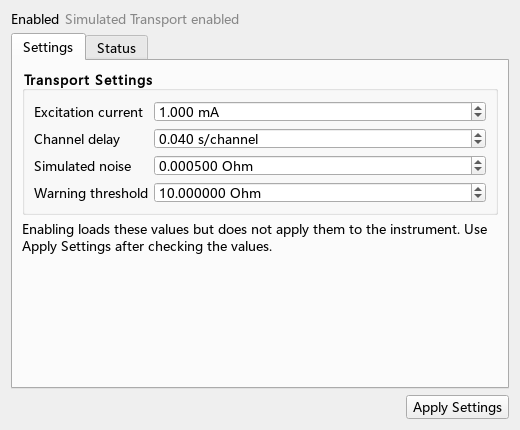
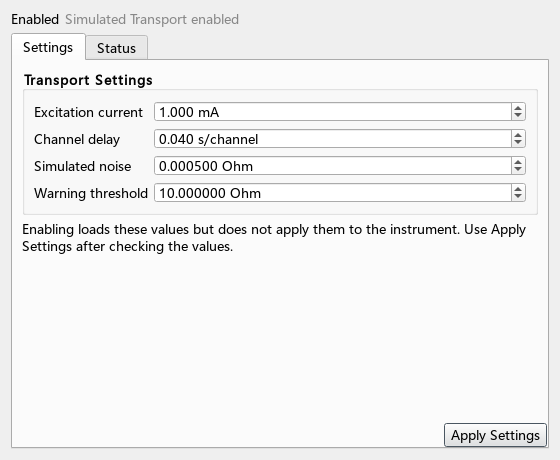
fix: keep module apply action on settings tab

Changed region(s): [[0.0, 0.0302, 0.9846, 0.9977]]

diff --git a/src/labcontrol/ui/measurement_modules.py b/src/labcontrol/ui/measurement_modules.py
@@ -4,7 +4,7 @@ from collections.abc import Mapping
 from copy import deepcopy
 from typing import Any
 
-from PySide6.QtCore import Qt, Signal
+from PySide6.QtCore import QSize, Qt, Signal
 from PySide6.QtGui import QCloseEvent
 from PySide6.QtWidgets import (
     QAbstractItemView,
@@ -23,6 +23,10 @@ from PySide6.QtWidgets import (
 from ..measurement.frontend_api import ModuleFrontend, ModuleFrontendContext
 from ..measurement.manifest import ModuleDescriptor, load_source_object
 from .scaling import scaled
+
+
+MODULE_WINDOW_MIN_WIDTH = 560
+MODULE_WINDOW_MIN_HEIGHT = 460
 
 
 class ModuleWindow(QDialog):
@@ -49,7 +53,6 @@ class ModuleWindow(QDialog):
         flags |= Qt.WindowType.WindowMinimizeButtonHint
         self.setWindowFlags(flags)
         self.setWindowTitle(f"{descriptor.name} {descriptor.version}")
-        self.setMinimumSize(scaled(520), scaled(430))
 
         layout = QVBoxLayout(self)
         header = QHBoxLayout()
@@ -62,19 +65,31 @@ class ModuleWindow(QDialog):
         layout.addLayout(header)
 
         self.tabs = QTabWidget()
-        self.settings_page = self.frontend.create_settings_page(self.tabs)
-        self.status_page = self.frontend.create_status_page(self.tabs)
-        self.tabs.addTab(self.settings_page, "Settings")
-        self.tabs.addTab(self.status_page, "Status")
-        self.tabs.setCurrentIndex(0)
-        layout.addWidget(self.tabs, 1)
+        self.settings_page = QWidget(self.tabs)
+        settings_layout = QVBoxLayout(self.settings_page)
+        settings_layout.setContentsMargins(0, 0, 0, 0)
+        self.settings_content = self.frontend.create_settings_page(self.settings_page)
+        settings_layout.addWidget(self.settings_content, 1)
 
         footer = QHBoxLayout()
         self.apply_button = QPushButton("Apply Settings")
         self.apply_button.clicked.connect(lambda: self.applyRequested.emit(descriptor.id))
         footer.addStretch(1)
         footer.addWidget(self.apply_button)
-        layout.addLayout(footer)
+        settings_layout.addLayout(footer)
+
+        self.status_page = self.frontend.create_status_page(self.tabs)
+        self.tabs.addTab(self.settings_page, "Settings")
+        self.tabs.addTab(self.status_page, "Status")
+        self.tabs.setCurrentIndex(0)
+        layout.addWidget(self.tabs, 1)
+
+        layout.activate()
+        minimum = self.sizeHint().expandedTo(
+            QSize(scaled(MODULE_WINDOW_MIN_WIDTH), scaled(MODULE_WINDOW_MIN_HEIGHT))
+        )
+        self.setMinimumSize(minimum)
+        self.resize(minimum)
 
         self.frontend.settingsChanged.connect(self._mark_dirty)
         self.context.manualActionRequested.connect(

diff --git a/tests/test_measurement_modules.py b/tests/test_measurement_modules.py
@@ -26,7 +26,12 @@ from labcontrol.measurement.service import MeasurementModuleService  # noqa: E40
 from labcontrol.measurement.settings import load_settings, save_settings  # noqa: E402
 from labcontrol.measurement.worker import WorkerRequestError  # noqa: E402
 from labcontrol.plugins import DeviceManager  # noqa: E402
-from labcontrol.ui.measurement_modules import ModuleWindow  # noqa: E402
+from labcontrol.ui.measurement_modules import (  # noqa: E402
+    MODULE_WINDOW_MIN_HEIGHT,
+    MODULE_WINDOW_MIN_WIDTH,
+    ModuleWindow,
+)
+from labcontrol.ui.scaling import scaled  # noqa: E402
 
 
 def copied_project(temp_root: Path):
@@ -309,6 +314,15 @@ class ModuleWindowTests(unittest.TestCase):
         self.assertTrue(window.has_unapplied_edits())
         window.show()
         self.application.processEvents()
+        self.assertTrue(window.apply_button.isVisible())
+        window.tabs.setCurrentIndex(1)
+        self.application.processEvents()
+        self.assertFalse(window.apply_button.isVisible())
+        self.assertGreaterEqual(window.minimumWidth(), scaled(MODULE_WINDOW_MIN_WIDTH))
+        self.assertGreaterEqual(window.minimumHeight(), scaled(MODULE_WINDOW_MIN_HEIGHT))
+        window.resize(1, 1)
+        self.assertGreaterEqual(window.width(), window.minimumWidth())
+        self.assertGreaterEqual(window.height(), window.minimumHeight())
         window.close()
         self.application.processEvents()
         self.assertTrue(window.isVisible())

diff --git a/tools/capture_module_preview.py b/tools/capture_module_preview.py
@@ -21,6 +21,7 @@ from labcontrol.ui.main_window import MainWindow  # noqa: E402
 def main() -> int:
     manager_output = ROOT / "docs" / "module-manager-preview.png"
     module_output = ROOT / "docs" / "module-window-preview.png"
+    status_output = ROOT / "docs" / "module-status-preview.png"
     application = QApplication([])
     config = load_config(ROOT / "configs" / "default.toml")
     activate_shared_dependencies(config)
@@ -44,15 +45,19 @@ def main() -> int:
             application.processEvents()
             window.module_manager.grab().save(str(manager_output), "PNG")
             module_window.grab().save(str(module_output), "PNG")
+            module_window.tabs.setCurrentIndex(1)
+            application.processEvents()
+            module_window.grab().save(str(status_output), "PNG")
         window.close()
         application.quit()
 
     QTimer.singleShot(100, capture_when_ready)
     application.exec()
-    if not manager_output.exists() or not module_output.exists():
+    if not manager_output.exists() or not module_output.exists() or not status_output.exists():
         return 1
     print(manager_output)
     print(module_output)
+    print(status_output)
     return 0
 
 

diff --git a/src/labcontrol/__init__.py b/src/labcontrol/__init__.py
@@ -1,3 +1,3 @@
 """OpenLab Control core package."""
 
-__version__ = "0.10.0"
+__version__ = "0.10.1"

diff --git a/docs/TEST_PLAN.md b/docs/TEST_PLAN.md
@@ -59,7 +59,7 @@
 .venv\Scripts\python.exe tools\capture_module_preview.py
 ```
 
-验收：生成 `module-manager-preview.png` 与 `module-window-preview.png`；Manager 只有三列；模块默认页是 Settings；Apply 按钮存在。
+验收：生成 Manager、Settings、Status 三张预览；Manager 只有三列；模块默认页是 Settings；Apply 按钮只在 Settings 预览中存在。
 
 ## SEQ 验收
 
@@ -81,11 +81,13 @@
 3. 双击 Enabled 行，窗口置前。
 4. 尝试关闭/Alt+F4，窗口仍存在。
 5. 最小化主窗口，模块窗口一起最小化；恢复后恢复。
-6. Disable 成功，窗口隐藏。
-7. SEQ 运行中 Enable/Disable/Refresh/Install 均不可用。
-8. 所有模块 Disabled 时 Refresh 生效。
-9. 任一模块 Enabled 时 Install Dependencies 被阻止。
-10. 制造无效 manifest，程序仍启动，该模块禁止 Enable并显示原因。
+6. Settings 页显示 Apply Settings；切换到 Status 后按钮完全隐藏。
+7. 将模块窗口缩到内容安全边界，确认不能继续缩小且内容无裁切。
+8. Disable 成功，窗口隐藏。
+9. SEQ 运行中 Enable/Disable/Refresh/Install 均不可用。
+10. 所有模块 Disabled 时 Refresh 生效。
+11. 任一模块 Enabled 时 Install Dependencies 被阻止。
+12. 制造无效 manifest，程序仍启动，该模块禁止 Enable并显示原因。
 
 ## Settings/Status 验收
 

diff --git a/docs/VERIFICATION_REPORT.md b/docs/VERIFICATION_REPORT.md
@@ -1,4 +1,4 @@
-# OpenLab Control 0.10.0 验证报告
+# OpenLab Control 0.10.1 验证报告
 
 - 验证日期：2026-07-23
 - 验证平台：Windows 11 x64（build 26200）
@@ -8,7 +8,7 @@
 
 ## 结论
 
-0.10.0 的仿真框架和 Windows 发布包达到本阶段交付条件。测量方案已与温度、磁场和只读 Monitor 设备体系分离；模块可从配置目录发现，在独立进程内运行仪表后端，并由主界面提供自定义 Settings/Status 窗口。无参数 SEQ `Measure` 可并行等待所有 Enabled 模块，并把模块流式多行结果与中央温度、磁场、Monitor 快照统一写入 DAT。
+0.10.1 的仿真框架和 Windows 发布包达到本阶段交付条件。测量方案已与温度、磁场和只读 Monitor 设备体系分离；模块可从配置目录发现，在独立进程内运行仪表后端，并由主界面提供自定义 Settings/Status 窗口。无参数 SEQ `Measure` 可并行等待所有 Enabled 模块，并把模块流式多行结果与中央温度、磁场、Monitor 快照统一写入 DAT。
 
 默认配置和示例模块均为仿真。本报告不代表任何真实温控仪、磁体电源、Keithley、Lakeshore 372 或其他硬件通过安全认证。
 
@@ -27,7 +27,7 @@
 - 多个模块同时开始测量、单模块多行流式结果、中央等待全部完成。
 - 无 Enabled 模块时 Warning 去重、系统状态行和继续执行。
 - measure/end/abort 失败语义；Error 调用 end(error) 而不自动 abort。
-- 模块窗口 Settings/Status、默认页、未应用编辑检测和禁止用户关闭。
+- 模块窗口 Settings/Status、Settings 专属 Apply、内容安全最小尺寸、未应用编辑检测和禁止用户关闭。
 - 运行目录的 SEQ、主配置、desired settings、实际 Status、实验 DAT 和事件 DAT 快照。
 - 旧 Initialize 与带参数 Measure 的解析 Error 及 GUI Run 阻止。
 - 温度/磁场扫描、Temperature List、任意嵌套、Hold、Warning/Error 和数值判稳。
@@ -48,7 +48,7 @@
 - 工具栏和菜单均有 Modules；
 - SEQ 编辑器、右侧命令栏、英文主界面和精度显示正常；
 - Modules Manager 只有 `Enabled / Name / Version` 三列；
-- 示例模块窗口默认显示 Settings，并包含独立 Status 页和 Apply Settings。
+- 示例模块窗口默认显示 Settings；Apply Settings 只在该页出现，Status 页不显示；窗口到内容安全边界后不能继续缩小。
 
 ### 无模块运行
 
@@ -86,13 +86,14 @@
 | 所有模块 Disabled 的 headless demo | 退出码 0，Completed |
 | 启用 `simulated_transport` 的 headless demo | 退出码 0，Completed |
 
-打包后的模块验证得到 12 行数据、14 列固定 Schema；`BYAPP` 版本为 `0.10.0`。这同时验证了 EXE 边界后的模块源码发现、独立工作进程、IPC、流式行写入和生命周期收尾。
+打包后的模块验证得到 12 行数据、14 列固定 Schema；`BYAPP` 版本为 `0.10.1`。这同时验证了 EXE 边界后的模块源码发现、独立工作进程、IPC、流式行写入和生命周期收尾。
 
 ## 界面验收图
 
 - 主窗口：`docs/main-window-preview.png`
 - 模块管理器：`docs/module-manager-preview.png`
 - 模块窗口：`docs/module-window-preview.png`
+- 模块 Status 页：`docs/module-status-preview.png`
 - SEQ 多行菜单：`docs/sequence-context-menu-preview.png`
 - Data Browser：`docs/data-browser-preview.png`
 

diff --git a/docs/TECHNICAL_SPECIFICATION.md b/docs/TECHNICAL_SPECIFICATION.md
@@ -1,4 +1,4 @@
-# OpenLab Control 0.10.0 技术规格
+# OpenLab Control 0.10.1 技术规格
 
 状态：Implemented Baseline
 日期：2026-07-23
@@ -93,8 +93,10 @@
 - WIN-002：窗口 SHALL 保持在主窗口之前但不得全局 Always-on-top。
 - WIN-003：窗口 SHALL 可移动/最小化，用户不得关闭。
 - WIN-004：主窗口最小化 SHALL 最小化当前可见模块窗口。
-- WIN-005：窗口 SHALL 固定 Settings/Status 两页，默认 Settings；页面内容由模块完全自定义。
-- WIN-006：SEQ 期间 Settings SHALL 只读，Apply/手动动作 SHALL 禁用。
+- WIN-005：Apply Settings SHALL 只属于 Settings 页，Status 页不得显示该按钮。
+- WIN-006：模块窗口 SHALL 设置随 UI Scale 缩放的内容安全最小尺寸。
+- WIN-007：窗口 SHALL 固定 Settings/Status 两页，默认 Settings；页面内容由模块完全自定义。
+- WIN-008：SEQ 期间 Settings SHALL 只读，Apply/手动动作 SHALL 禁用。
 
 ### 3.6 模块生命周期
 

diff --git a/CHANGELOG.md b/CHANGELOG.md
@@ -1,5 +1,10 @@
 # Changelog
 
+## 0.10.1 - 2026-07-23
+
+- `Apply Settings` 现在只位于模块的 Settings 页，切换到 Status 后不再显示。
+- 模块窗口增加随 UI Scale 缩放的内容安全最小尺寸，达到完整布局边界后不能继续缩小。
+
 ## 0.10.0 - 2026-07-23
 
 - 将测量仪表从温度/磁场/监视设备体系中完全拆分，移除旧 `measurement` 设备、Transport 状态块和旧 Measure 参数。

diff --git a/README.md b/README.md
@@ -2,7 +2,7 @@
 
 OpenLab Control 是一个以 Quantum Design MultiVu 操作方式为参考、用于外部实验设备的 Python/PySide6 控制框架。它不控制 PPMS 本体；温控仪、磁体电源和只读监视设备由设备插件提供，吉时利组合表、Lakeshore 372 AC Bridge 等完整测量方案由独立的 Measurement Module 提供。
 
-当前版本：`0.10.0`。界面以英文为主，技术与操作文档以中文为主。
+当前版本：`0.10.1`。界面以英文为主，技术与操作文档以中文为主。
 
 ![主窗口](docs/main-window-preview.png)
 
@@ -62,6 +62,8 @@ build.bat
 ![模块管理器](docs/module-manager-preview.png)
 
 ![示例模块窗口](docs/module-window-preview.png)
+
+![示例模块状态页](docs/module-status-preview.png)
 
 ## 目录
 

diff --git a/docs/OPERATIONS.md b/docs/OPERATIONS.md
@@ -72,9 +72,12 @@ run.bat
 
 - 默认打开 `Settings` 页。
 - Enable 会加载上次保存参数，但不会把这些值发送给仪表。
+- `Apply Settings` 只显示在 `Settings` 页；切换到 `Status` 后不会显示。
 - 检查参数后点击 `Apply Settings`，再次确认后才发送。
 - `Status` 页显示连接、实际状态、输出状态、读数等，布局由模块自己定义。
 - 模块可以提供 `Test Connection`、`Read Now`、`Measure Now`；仅 SEQ Idle 可用，结果不写实验 DAT。
+
+模块窗口设置了按 UI Scale 缩放的最小尺寸；缩小到完整显示页签、参数区和操作区的边界后不能继续缩小。
 
 Settings 在 Apply、Disable、关闭程序和 Run 前自动保存。设置保存在 `module_data/<id>/settings.toml`，不修改模块源码。
 

diff --git a/docs/ARCHITECTURE.md b/docs/ARCHITECTURE.md
@@ -1,6 +1,6 @@
 # 系统架构
 
-本文描述 OpenLab Control 0.10.0 的实际实现边界。设备控制与测量模块是两套不同的扩展机制，不能混用。
+本文描述 OpenLab Control 0.10.1 的实际实现边界。设备控制与测量模块是两套不同的扩展机制，不能混用。
 
 ## 总览
 

diff --git a/docs/DAT_FORMAT.md b/docs/DAT_FORMAT.md
@@ -32,7 +32,7 @@ runs/20260723_120000_nested_scan/
 ```text
 [Header]
 ; OpenLab Control Data File (default extension .dat)
-BYAPP,OpenLab Control,0.10.0
+BYAPP,OpenLab Control,0.10.1
 INFO,...
 
 [Data]